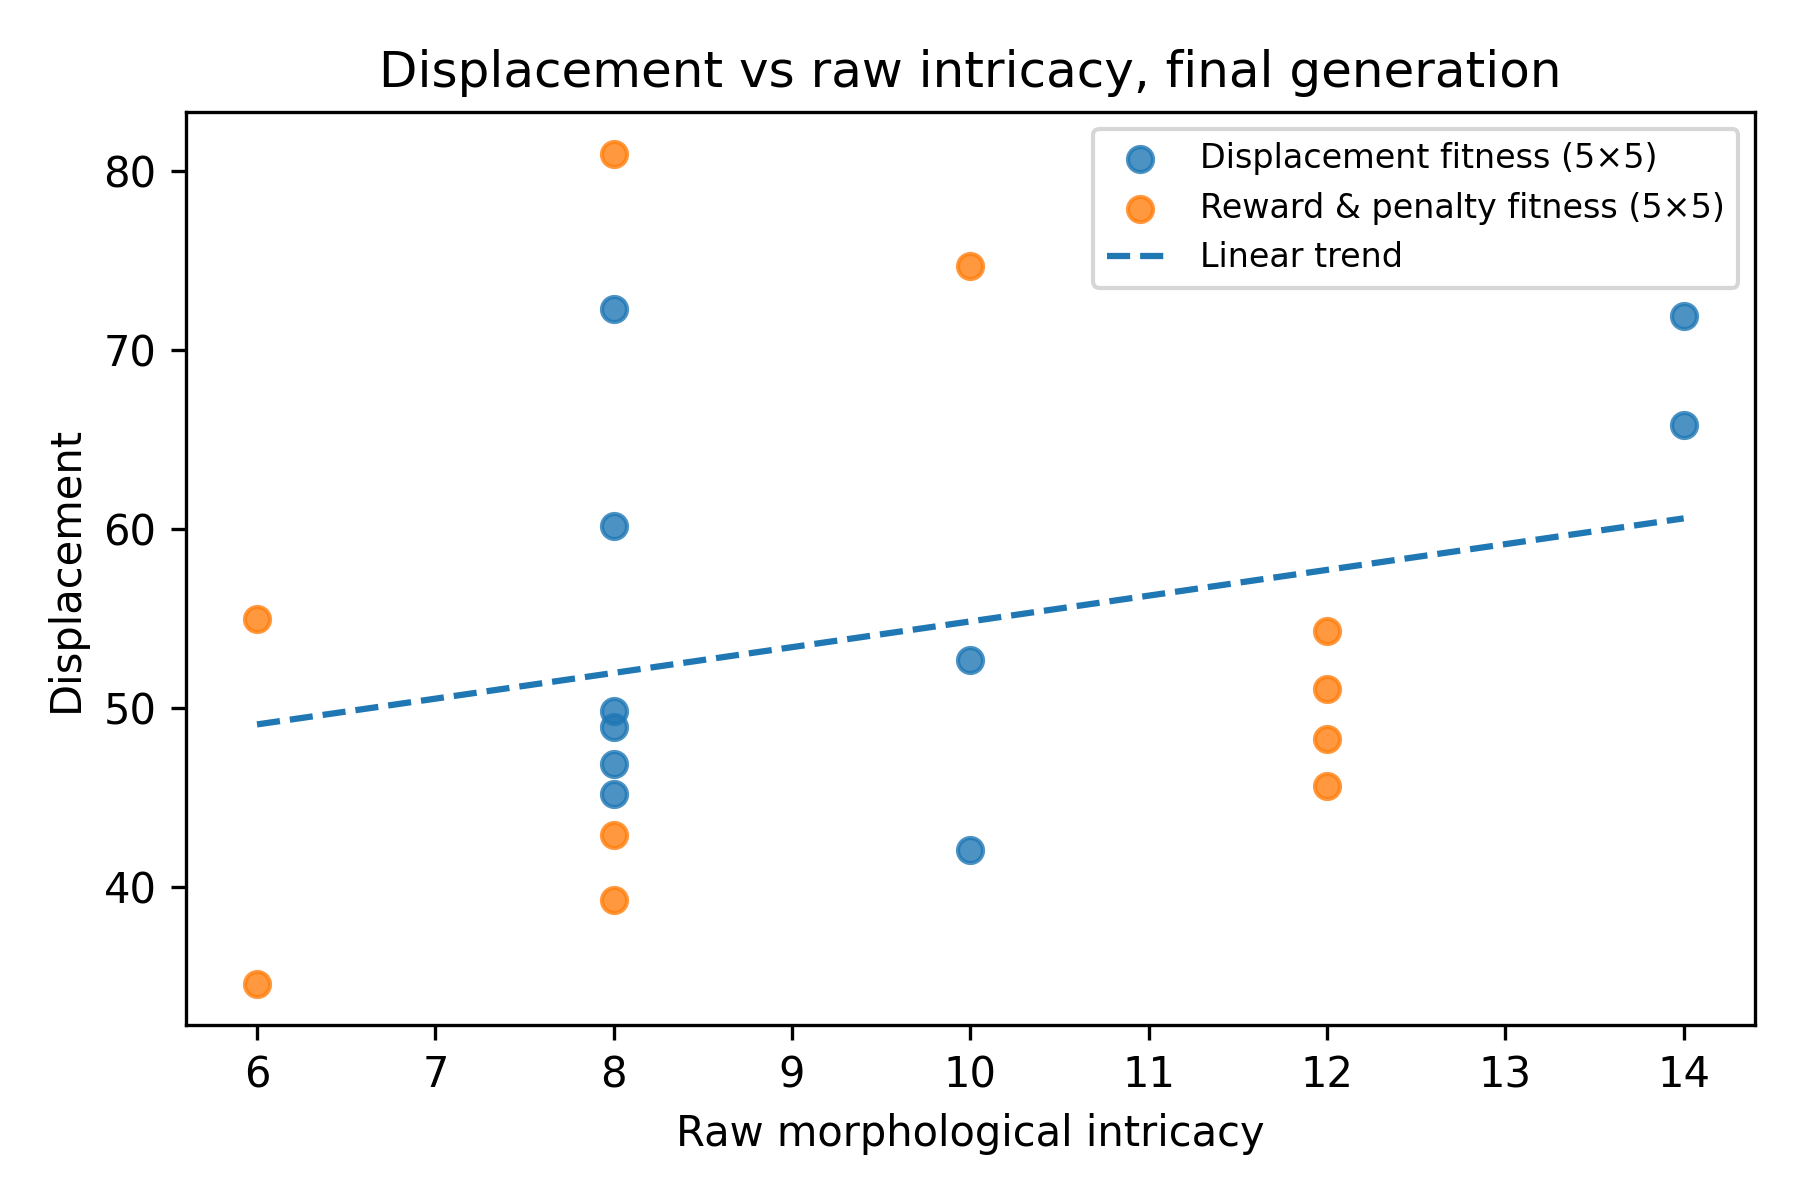
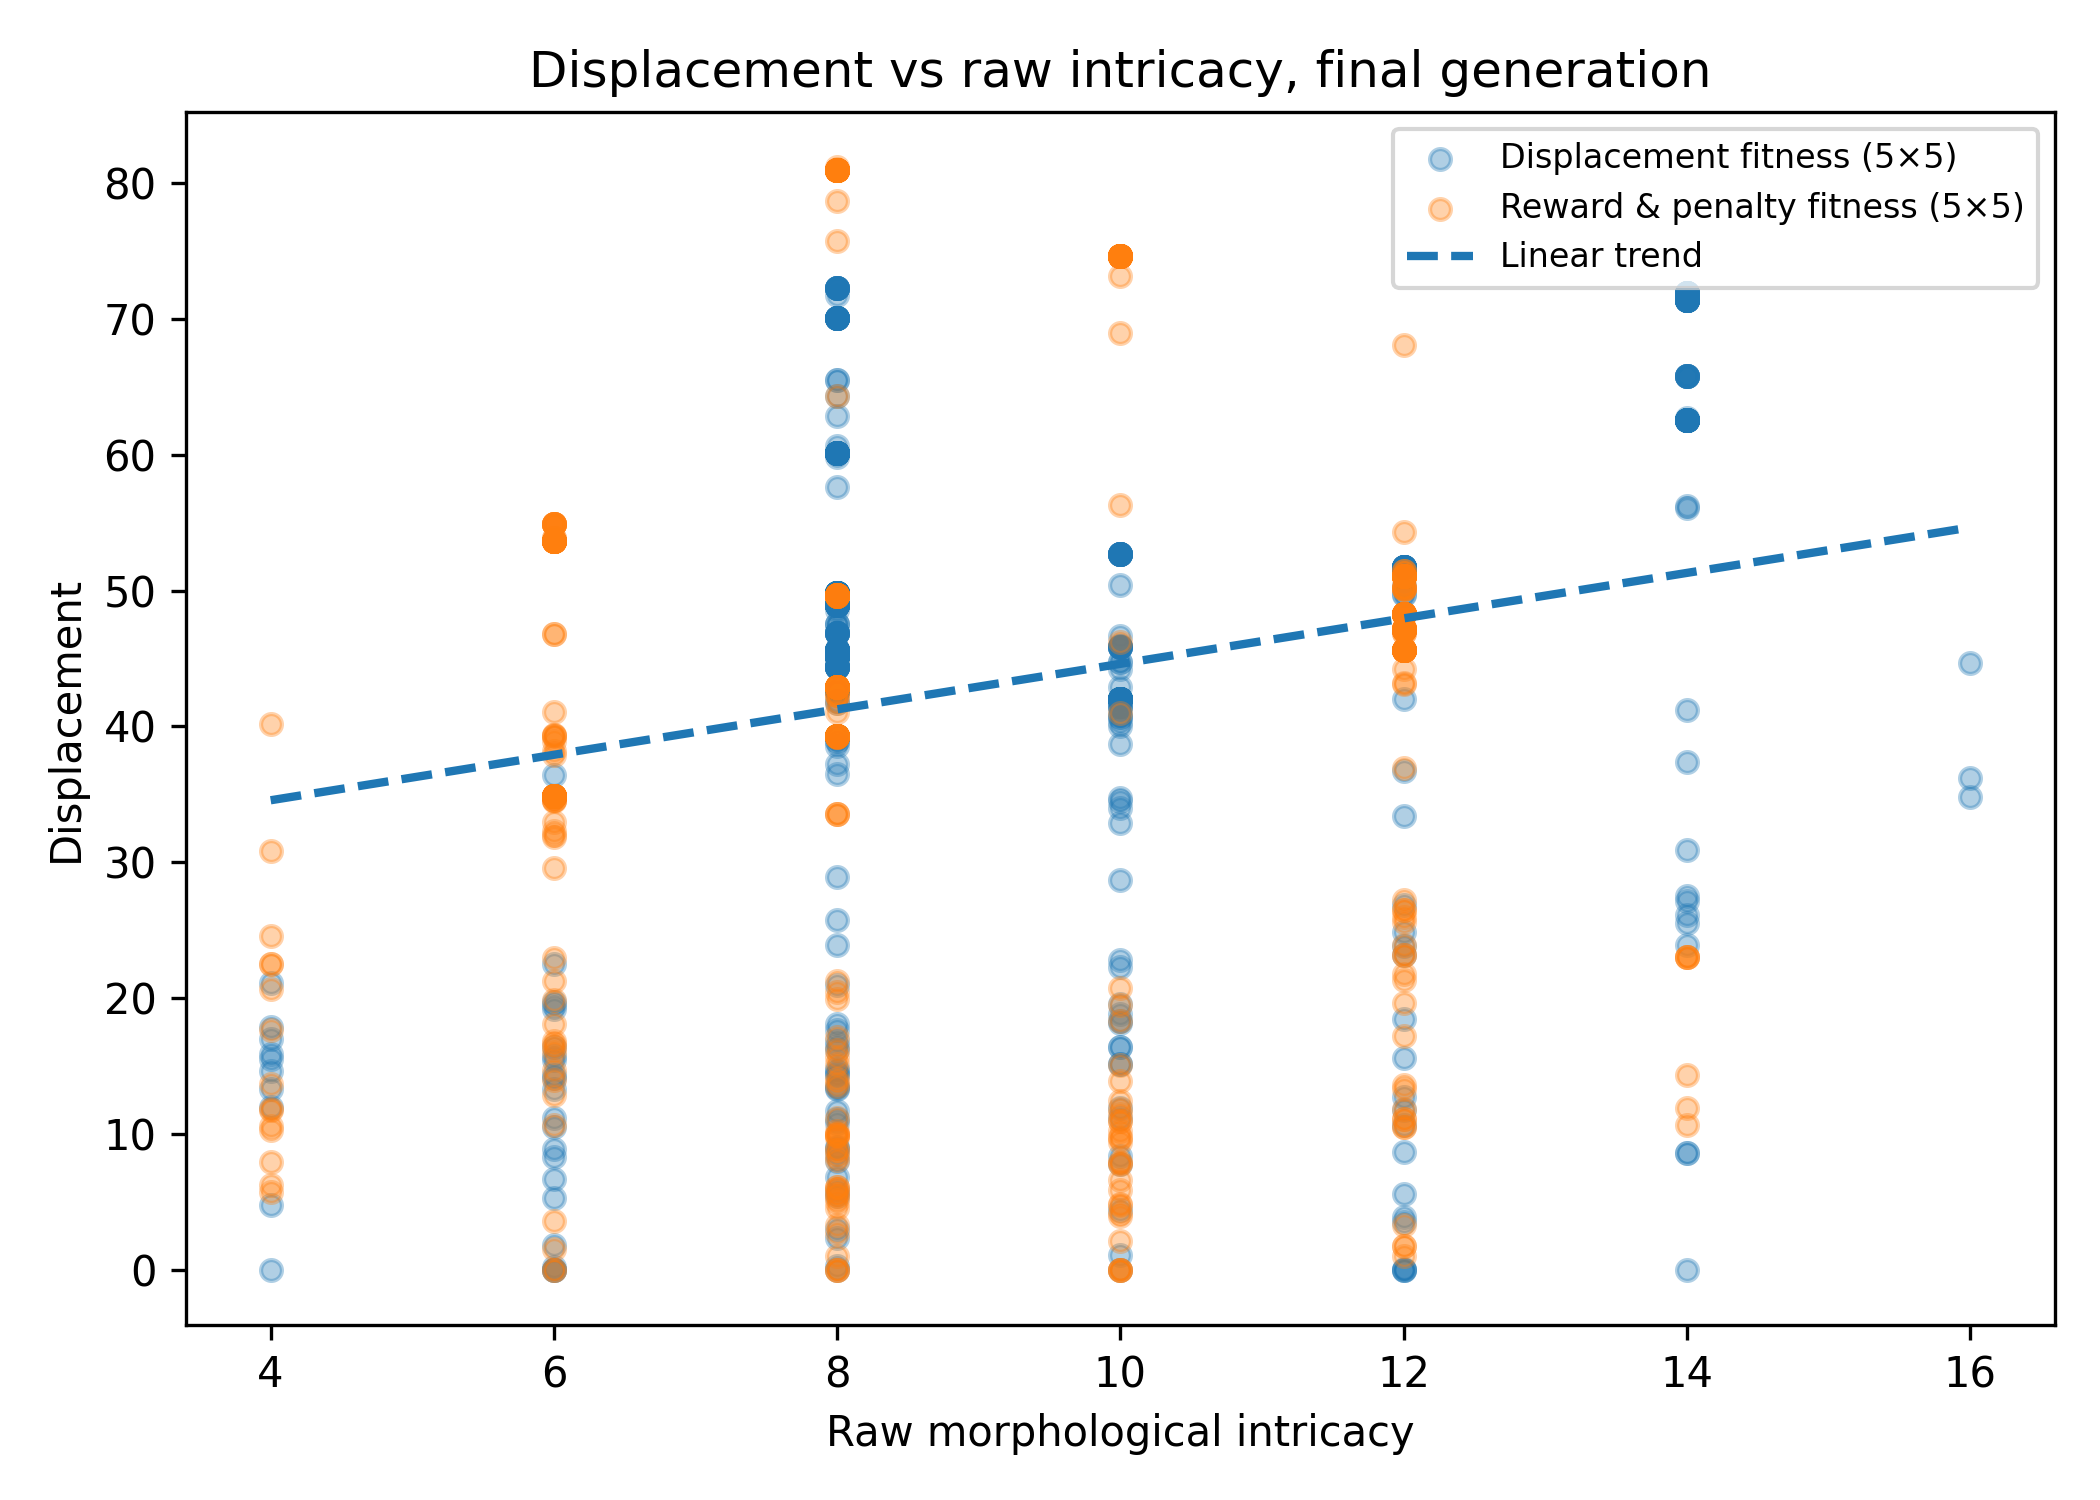
Update final intricacy scatter plot

diff --git a/analysis/results_stats_and_scatter.py b/analysis/results_stats_and_scatter.py
@@ -53,7 +53,8 @@ report_mannwhitney("intricacy_per_voxel", 150, "Generation 150 intricacy per vox
 report_mannwhitney("intricacy_per_perimeter", 150, "Generation 150 intricacy per perimeter")
 
 
-final_df = champions[champions["generation"] == 150].copy()
+final_df = df[df["generation"] == 150].copy()
+
 valid = final_df[["intricacy", "displacement"]].dropna()
 valid = valid[np.isfinite(valid["intricacy"]) & np.isfinite(valid["displacement"])]
 
@@ -63,6 +64,8 @@ y = valid["displacement"]
 if len(valid) >= 3 and x.nunique() > 1 and y.nunique() > 1:
     r, p = pearsonr(x, y)
     print("\nPearson correlation: final displacement vs raw intricacy")
+    print("Using all final-generation individuals")
+    print(f"n = {len(valid)}")
     print(f"r = {r:.3f}")
     print(f"p = {p:.3f}")
 else:
@@ -70,14 +73,15 @@ else:
     print("\nPearson correlation could not be calculated.")
 
 
-plt.figure(figsize=(6, 4))
+plt.figure(figsize=(7, 5))
 
 for experiment, group in final_df.groupby("experiment"):
     plt.scatter(
         group["intricacy"],
         group["displacement"],
         label=experiment,
-        alpha=0.8
+        alpha=0.35,
+        s=25
     )
 
 if len(valid) >= 3 and x.nunique() > 1:
@@ -87,7 +91,13 @@ if len(valid) >= 3 and x.nunique() > 1:
     x_line = np.linspace(x.min(), x.max(), 100)
     y_line = trend(x_line)
 
-    plt.plot(x_line, y_line, linestyle="--", label="Linear trend")
+    plt.plot(
+        x_line,
+        y_line,
+        linestyle="--",
+        linewidth=2,
+        label="Linear trend"
+    )
 
 plt.xlabel("Raw morphological intricacy")
 plt.ylabel("Displacement")